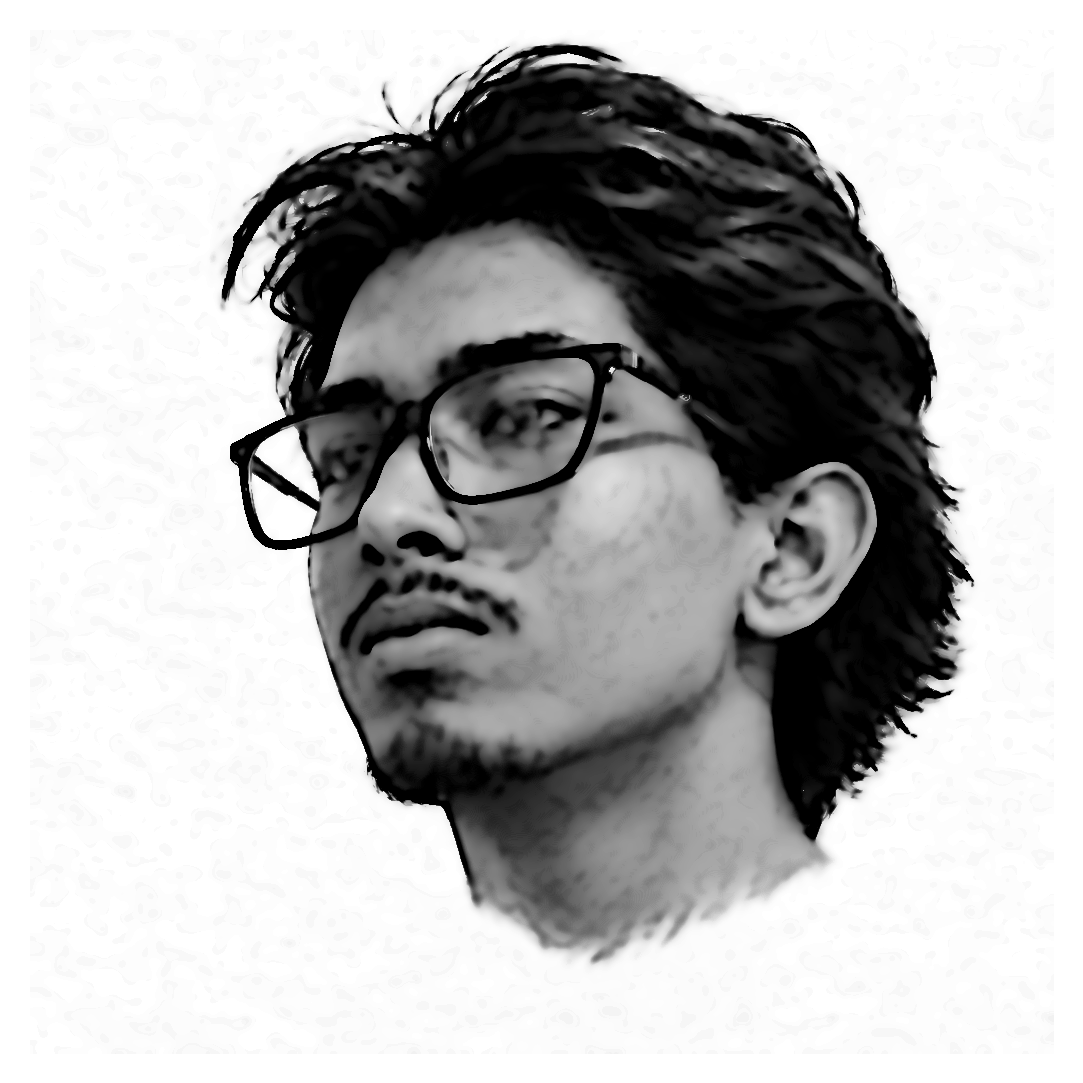
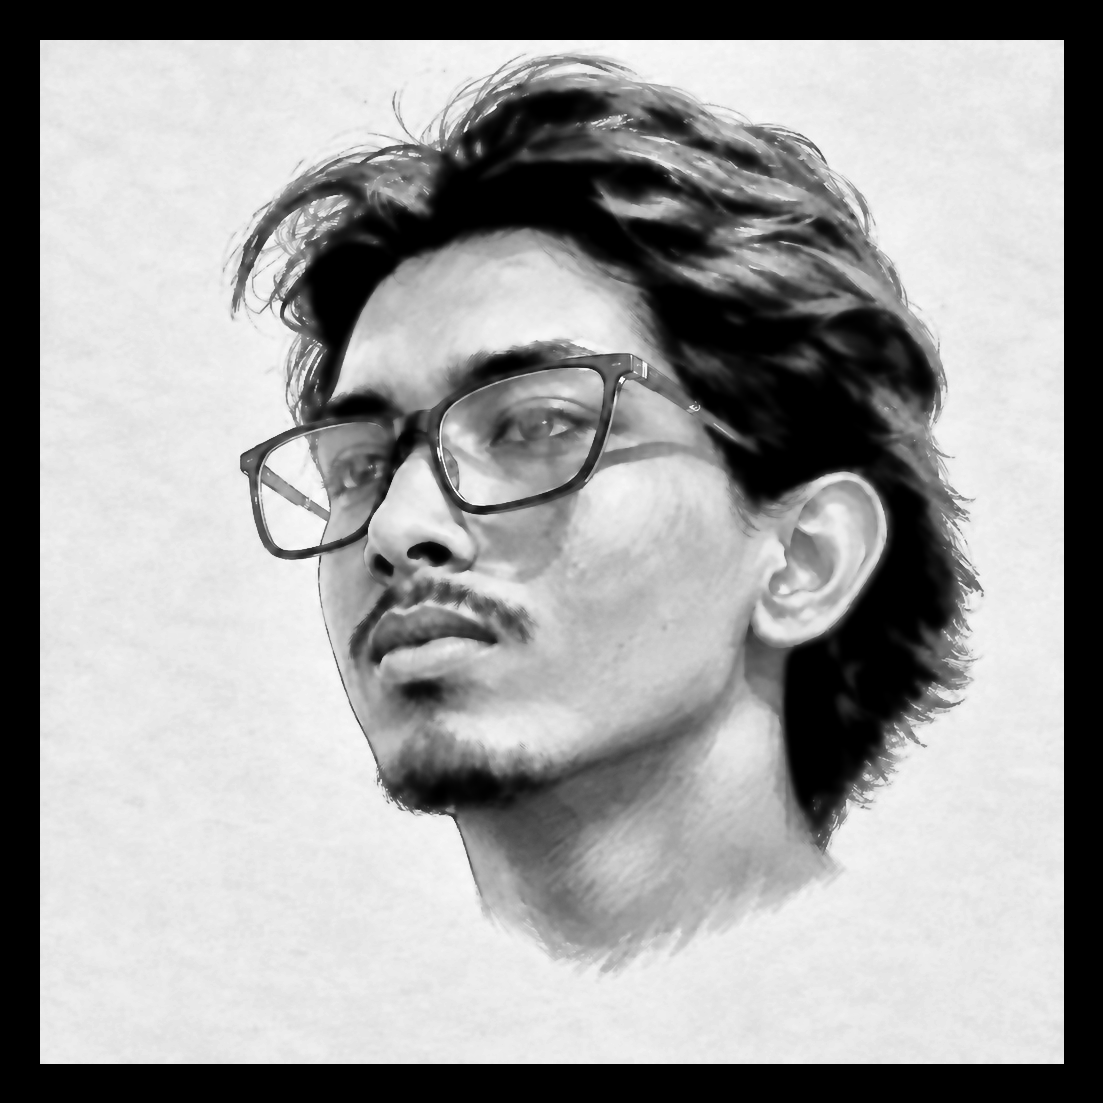
fixing gap in potrait image

diff --git a/scripts/make_ascii_svg.py b/scripts/make_ascii_svg.py
@@ -1,154 +1,54 @@
-"""
-Convert a portrait photo into a CLEAN, monochrome ASCII-art SVG (Andrew6rant
-style: one light-gray color, subject isolated on a dark background) that "types"
-itself in like a terminal, then holds.
-
-Monochrome is deliberate -- per-character rainbow color is what makes ASCII
-portraits look noisy. One fill color + a good density ramp + high contrast (so a
-busy background washes out to blank) reads as neat and legible.
-
-GitHub renders SVGs embedded via <img> and runs their SMIL animations there (JS
-does not run). Each row is revealed with a left-to-right clip wipe plus a small
-block cursor riding the wipe edge, staggered top -> bottom, so the whole
-portrait prints once and freezes.
-"""
-from PIL import Image, ImageEnhance, ImageOps, ImageFilter
-import html
 import os
-import sys
+from PIL import Image
 
 HERE = os.path.dirname(os.path.abspath(__file__))
-# defaults to the prepped grayscale image (see prep_photo.py), which already has
-# the background removed + local contrast applied.
-SRC = sys.argv[1] if len(sys.argv) > 1 else os.path.join(HERE, "..", "source-prepped.png")
-OUT = sys.argv[2] if len(sys.argv) > 2 else os.path.join(HERE, "..", "sami-ascii.svg")
+SRC = os.path.join(HERE, "..", "source-prepped.png")
+OUT_NAME = "ascii.svg"                      # <-- must match your README
+OUT = os.path.join(HERE, "..", OUT_NAME)
 
-# more columns = more detail (eyes need ~6+ chars across to read). the art
-# stays ART_W px wide either way; cells shrink, keeping a ~1:1.875 char aspect.
-COLS = int(os.environ.get("COLS", 180))
-ART_W_TARGET = 800
-CELL_W = ART_W_TARGET / COLS
-CELL_H = CELL_W * 15 / 8
-ROWS = round(COLS * 8 / 15)
-RAMP = "@%#sc*+=-:`. "  # bright(sparse) -> dark(dense); leading space clears bg
+COLS = 110
+RAMP = " .:-=+*#%@"        # black = empty, bright = dense
+GAMMA = 0.8                # lower = denser face
+FS = 7                     # font size
+CW, CH = FS * 0.6, FS * 1.0  # character cell width / height
 
-# the prepped image already has bg removed + CLAHE local contrast, so only
-# light global tuning is needed here.
-CONTRAST = 1.05
-BRIGHTNESS = 1.0
-GAMMA = 1.18          # >1 brightens mids -> face lands in sparser chars
-SHARPEN = False
-WHITE_FLOOR = 0.80    # luminance above this is forced to blank (space)
+img = Image.open(SRC).convert("L")
+rows = round(COLS * img.height / img.width * CW / CH)
+img = img.resize((COLS, rows), Image.LANCZOS)
+px = img.load()
 
-PAD = 20
-TITLEBAR_H = 30
-STATUS_H = 30
-ART_W = COLS * CELL_W
-ART_H = ROWS * CELL_H
-CANVAS_W = ART_W + PAD * 2
-CANVAS_H = TITLEBAR_H + ART_H + STATUS_H + PAD
-
-BG = "#0d1117"
-BG2 = "#111722"
-FRAME = "#30363d"
-TITLE_TEXT = "#7d8590"
-INK = "#c9d1d9"      # the single ascii color (matches Andrew6rant)
-CURSOR = "#c9d1d9"
-
-# ---- reveal timing (one-shot; a cursor rasters top -> bottom) -------------
-ROW_DUR = 5.8 / ROWS  # whole portrait prints in ~6s at any resolution
-STAGGER = ROW_DUR       # == ROW_DUR -> a single cursor sweeping down
-
-# ---- 1. sample the image into a COLS x ROWS grayscale grid ----------------
-im = Image.open(SRC).convert("L")               # grayscale
-if SHARPEN:
-    im = im.filter(ImageFilter.UnsharpMask(radius=2, percent=140, threshold=2))
-im = ImageEnhance.Brightness(im).enhance(BRIGHTNESS)
-im = ImageEnhance.Contrast(im).enhance(CONTRAST)
-im = im.resize((COLS, ROWS), Image.LANCZOS)
-px = im.load()
-
-STATIC = bool(os.environ.get("STATIC"))  # emit frozen state for previews
-
-rows_txt = []
-for y in range(ROWS):
-    chars = []
+lines = []
+for y in range(rows):
+    s = ""
     for x in range(COLS):
-        lum = px[x, y] / 255.0
-        lum = pow(lum, GAMMA)
-        if lum >= WHITE_FLOOR:
-            chars.append(" ")
-            continue
-        idx = int((1.0 - lum) * (len(RAMP) - 1) + 0.5)
-        idx = max(0, min(len(RAMP) - 1, idx))
-        chars.append(RAMP[idx])
-    rows_txt.append("".join(chars))
+        v = (px[x, y] / 255.0) ** GAMMA
+        s += RAMP[min(int(v * len(RAMP)), len(RAMP) - 1)]
+    lines.append(s.rstrip())
 
-art_top = TITLEBAR_H + PAD * 0.35
-
-# ---- 2. assemble SVG ------------------------------------------------------
-parts = []
-parts.append(
-    f'<svg xmlns="http://www.w3.org/2000/svg" width="{CANVAS_W}" height="{CANVAS_H}" '
-    f'viewBox="0 0 {CANVAS_W} {CANVAS_H}" font-family="ui-monospace, SFMono-Regular, '
-    f'Menlo, Consolas, monospace">'
-)
-parts.append('<defs>'
-             f'<linearGradient id="bg" x1="0" y1="0" x2="0" y2="1">'
-             f'<stop offset="0" stop-color="{BG2}"/><stop offset="1" stop-color="{BG}"/>'
-             f'</linearGradient></defs>')
-
-parts.append(f'<rect width="{CANVAS_W}" height="{CANVAS_H}" rx="12" fill="url(#bg)"/>')
-parts.append(f'<rect x="0.5" y="0.5" width="{CANVAS_W-1}" height="{CANVAS_H-1}" rx="12" '
-             f'fill="none" stroke="{FRAME}" stroke-width="1"/>')
-
-parts.append(f'<line x1="0" y1="{TITLEBAR_H}" x2="{CANVAS_W}" y2="{TITLEBAR_H}" stroke="{FRAME}"/>')
-for i, dotcol in enumerate(["#ff5f56", "#ffbd2e", "#27c93f"]):
-    parts.append(f'<circle cx="{PAD + i*16}" cy="{TITLEBAR_H/2}" r="5" fill="{dotcol}"/>')
-parts.append(f'<text x="{CANVAS_W/2}" y="{TITLEBAR_H/2 + 4}" fill="{TITLE_TEXT}" font-size="12" '
-             f'text-anchor="middle">4ge101@github: ~$ ./portrait.sh</text>')
-
-# one <text> per row (single color -> no per-char markup, tiny file)
-font_size = CELL_H * 0.86
-for ry, line in enumerate(rows_txt):
-    y = art_top + ry * CELL_H + CELL_H * 0.74
-    row_y = art_top + ry * CELL_H
-    delay = ry * STAGGER
-    safe = html.escape(line)
-    text = (f'<text xml:space="preserve" x="{PAD}" y="{y:.1f}" fill="{INK}" '
-            f'font-size="{font_size:.1f}" textLength="{ART_W}" lengthAdjust="spacing">{safe}</text>')
-
-    if STATIC:
-        parts.append(text)
+PAD = 14
+W = round(COLS * CW + PAD * 2)
+H = round(rows * CH + PAD * 2)
+body = []
+for i, s in enumerate(lines):
+    if not s:
         continue
-
-    parts.append(
-        f'<clipPath id="r{ry}"><rect x="{PAD}" y="{row_y:.1f}" height="{CELL_H}" width="0">'
-        f'<animate attributeName="width" from="0" to="{ART_W}" begin="{delay:.3f}s" '
-        f'dur="{ROW_DUR:.2f}s" fill="freeze"/></rect></clipPath>'
-    )
-    parts.append(f'<g clip-path="url(#r{ry})">{text}</g>')
-    parts.append(
-        f'<rect y="{row_y+1:.1f}" width="{CELL_W}" height="{CELL_H-2}" fill="{CURSOR}" opacity="0">'
-        f'<animate attributeName="x" from="{PAD}" to="{PAD+ART_W}" begin="{delay:.3f}s" '
-        f'dur="{ROW_DUR:.2f}s" fill="freeze"/>'
-        f'<set attributeName="opacity" to="0.85" begin="{delay:.3f}s"/>'
-        f'<set attributeName="opacity" to="0" begin="{delay+ROW_DUR:.3f}s"/></rect>'
+    y = PAD + (i + 1) * CH - 2
+    body.append(
+        f'<text class="r" x="{PAD}" y="{y:.1f}" textLength="{len(s) * CW:.1f}" '
+        f'lengthAdjust="spacing" xml:space="preserve" '
+        f'style="animation-delay:{i * 0.04:.2f}s">{s}</text>'
     )
 
-# status bar with a steady blinking cursor
-status_line_y = TITLEBAR_H + ART_H + PAD * 0.35
-status_y = status_line_y + 19
-parts.append(f'<line x1="0" y1="{status_line_y:.1f}" x2="{CANVAS_W}" y2="{status_line_y:.1f}" stroke="{FRAME}"/>')
-parts.append(f'<text x="{PAD}" y="{status_y:.1f}" fill="{TITLE_TEXT}" font-size="13">'
-             f'4ge101@github:~$ whoami <tspan fill="{INK}">Mohammad Sami ALi</tspan></text>')
-status_chars = len("4ge101@github:~$ whoami AlixSami ")   # cursor sits after the name
-parts.append(f'<rect x="{PAD + status_chars * 13 * 0.6:.1f}" y="{status_y-12:.1f}" width="8" height="14" fill="{INK}">'
-             f'<animate attributeName="opacity" values="1;1;0;0" keyTimes="0;0.5;0.51;1" '
-             f'dur="1s" repeatCount="indefinite"/></rect>')
+svg = f'''<svg xmlns="http://www.w3.org/2000/svg" width="{W}" height="{H}" viewBox="0 0 {W} {H}">
+<style>
+  .r {{ font-family: ui-monospace, Menlo, Consolas, monospace; font-size: {FS}px;
+        fill: #c9d1d9; opacity: 0; animation: in 0.3s ease forwards; }}
+  @keyframes in {{ to {{ opacity: 1; }} }}
+</style>
+<rect width="{W}" height="{H}" rx="10" fill="#0d1117" stroke="#30363d"/>
+{chr(10).join(body)}
+</svg>'''
 
-parts.append("</svg>")
-svg = "".join(parts)
-with open(OUT, "w") as f:
+with open(OUT, "w", encoding="utf-8") as f:
     f.write(svg)
-print("wrote", OUT, len(svg), "bytes;", CANVAS_W, "x", CANVAS_H)
+print("wrote", os.path.abspath(OUT), f"({COLS}x{rows})")

diff --git a/scripts/prep_photo.py b/scripts/prep_photo.py
@@ -1,18 +1,3 @@
-"""
-Prepare the dp (a flat illustration) for clean ASCII conversion:
-  1. remove the background (rembg) so the subject is isolated
-  2. bilateral-smooth away the paper texture (otherwise skin turns to `::::`
-     noise and the eyes drown in it) while keeping the drawn lines sharp
-  3. stretch tones so skin lands near white and hair/lines stay dark
-  4. darken the line work (difference-of-gaussians ridges) -- eyelids, pupils,
-     glasses frame and smile are thin dark strokes that plain luminance
-     averaging washes out at ascii resolution
-  5. composite onto white and crop square around the subject
-
-Output: source-prepped.png (grayscale), consumed by make_ascii_svg.py.
-
-    python scripts/prep_photo.py <input.png> [output.png]
-"""
 import os
 import sys
 
@@ -22,43 +7,35 @@ from PIL import Image
 
 HERE = os.path.dirname(os.path.abspath(__file__))
 INP = sys.argv[1] if len(sys.argv) > 1 else os.path.join(HERE, "..", "source-photo.png")
-OUT = sys.argv[2] if len(sys.argv) > 2 else os.path.join(HERE, "..", "source-prepped.png")
+OUT = os.path.join(HERE, "..", "source-prepped.png")
 
-LINE_WEIGHT = 0.6     # how hard drawn lines are pushed toward black
+GAMMA = 0.7         # lower = brighter face
+BG_LEVEL = 30       # darker than this = background (0-255)
+MARGIN = 40
 
-# 1. cut out the subject
-cut = Image.open(INP).convert("RGBA")
-rgb = np.array(cut.convert("RGB"))
-alpha = np.array(cut.split()[-1])                 # 0 = background
-gray = cv2.cvtColor(rgb, cv2.COLOR_RGB2GRAY)
+gray = cv2.cvtColor(np.array(Image.open(INP).convert("RGB")), cv2.COLOR_RGB2GRAY)
 
-# 2. smooth texture, keep edges
-smooth = gray
-for _ in range(3):
-    smooth = cv2.bilateralFilter(smooth, 9, 40, 9)
+# mask: 1 on the subject, 0 on the black background (so noise never survives)
+blur = cv2.GaussianBlur(gray, (0, 0), 4).astype(np.float32)
+mask = np.clip((blur - BG_LEVEL) / 25.0, 0, 1)
+mask = cv2.GaussianBlur(mask, (0, 0), 2)
 
-# 3. tone stretch over the subject only
-lo, hi = np.percentile(smooth[alpha > 128], [2, 92])
-tone = np.clip((smooth.astype(np.float32) - lo) / (hi - lo), 0, 1)
+# gentle contrast, then brighten mid-tones
+clahe = cv2.createCLAHE(clipLimit=2.0, tileGridSize=(8, 8))
+tone = clahe.apply(cv2.bilateralFilter(gray, 7, 40, 7)).astype(np.float32) / 255.0
+tone = tone ** GAMMA
 
-# 4. dark-on-light ridges -> darken
-fine = cv2.GaussianBlur(smooth, (0, 0), 1.5).astype(np.float32)
-coarse = cv2.GaussianBlur(smooth, (0, 0), 6).astype(np.float32)
-lines = np.clip((coarse - fine) / 40.0, 0, 1)
-out = np.clip(tone - LINE_WEIGHT * lines, 0, 1) * 255
+out = (tone * mask * 255).astype(np.uint8)
 
-# 5. paste onto white (feathered a hair to avoid a halo), square crop
-mask = cv2.GaussianBlur(alpha.astype(np.float32) / 255.0, (0, 0), 1.0)
-out = out * mask + 255.0 * (1.0 - mask)
-
-ys, xs = np.where(alpha > 20)
-side = max(xs.max() - xs.min(), ys.max() - ys.min()) + 60
+# square crop around the subject, black padding
+ys, xs = np.where(mask > 0.5)
+side = max(xs.max() - xs.min(), ys.max() - ys.min()) + MARGIN * 2
 cx, cy = (xs.min() + xs.max()) // 2, (ys.min() + ys.max()) // 2
-canvas = np.full((side, side), 255, np.uint8)
+canvas = np.zeros((side, side), np.uint8)
 x0, y0 = cx - side // 2, cy - side // 2
 sx0, sy0 = max(x0, 0), max(y0, 0)
 sx1, sy1 = min(x0 + side, out.shape[1]), min(y0 + side, out.shape[0])
-canvas[sy0 - y0:sy1 - y0, sx0 - x0:sx1 - x0] = out[sy0:sy1, sx0:sx1].astype(np.uint8)
+canvas[sy0 - y0:sy1 - y0, sx0 - x0:sx1 - x0] = out[sy0:sy1, sx0:sx1]
 
-Image.fromarray(canvas, mode="L").save(OUT)
+Image.fromarray(canvas).save(OUT)
 print("wrote", OUT, canvas.shape)
